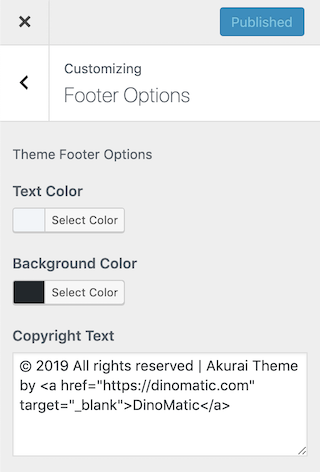
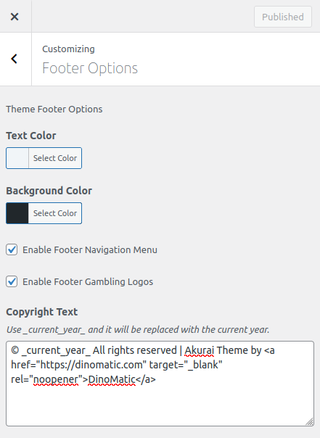
Akurai 2.1.0

diff --git a/config.php b/config.php
@@ -17,7 +17,7 @@ return [
 
     // versions
     'versions' => [
-        'akurai'       => '2.0.5',
+        'akurai'       => '2.1.0',
         'sikika'       => '1.0.2',
         'spinoko'      => '2.0.2',
         'kemoku'       => '1.3.0',

diff --git a/source/docs/akurai/customizations.md b/source/docs/akurai/customizations.md
@@ -44,7 +44,8 @@ Header options such as colors, navigation menu styles, header layout and positio
 
 ### Footer Options
 
-Footer colors and copyright text.
+Footer colors, footer navigation, gambling logos and copyright text.
+If you're using year in your copyright text, you can replace it with `_current_year_` and it will display the current year.
 
 ![customizer-footer-options](/assets/images/akurai/customizer/footer-options.png)
 
